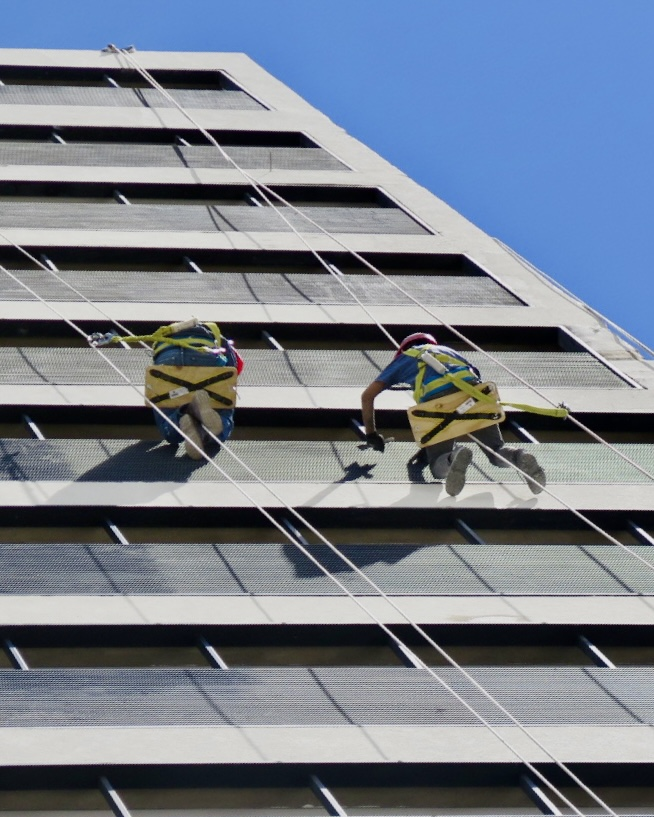
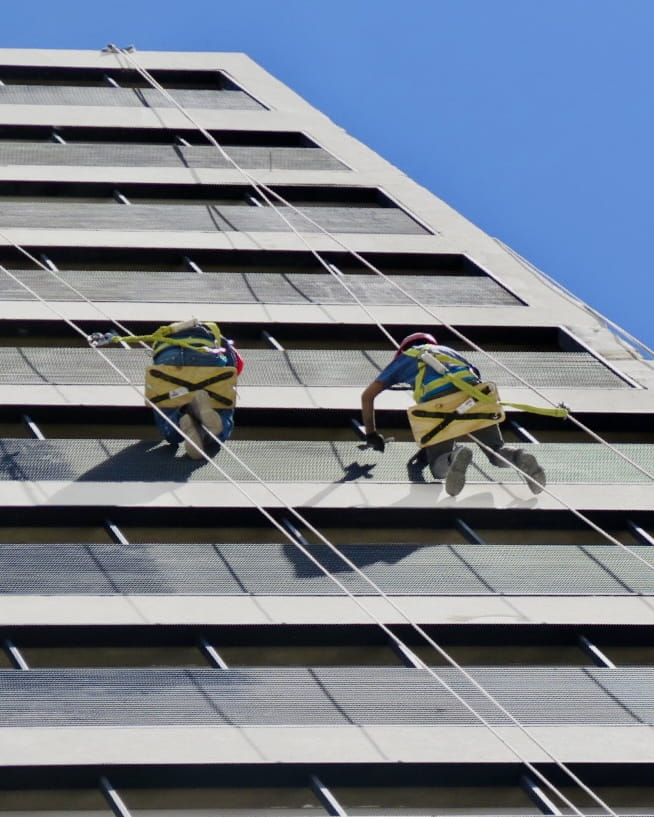
Calidad section img 2

diff --git a/components/nosotros/NosotrosMisionSection.tsx b/components/nosotros/NosotrosMisionSection.tsx
@@ -71,7 +71,7 @@ export default function NosotrosMisionSection() {
             style={{ transitionDuration: `${IMG_FOCUS_MS}ms` }}
           >
             <Image
-              src="/images/gestion/calidad6.JPG"
+              src="/images/gestion/calidad6.jpg"
               alt={t("Misión")}
               fill
               className="
